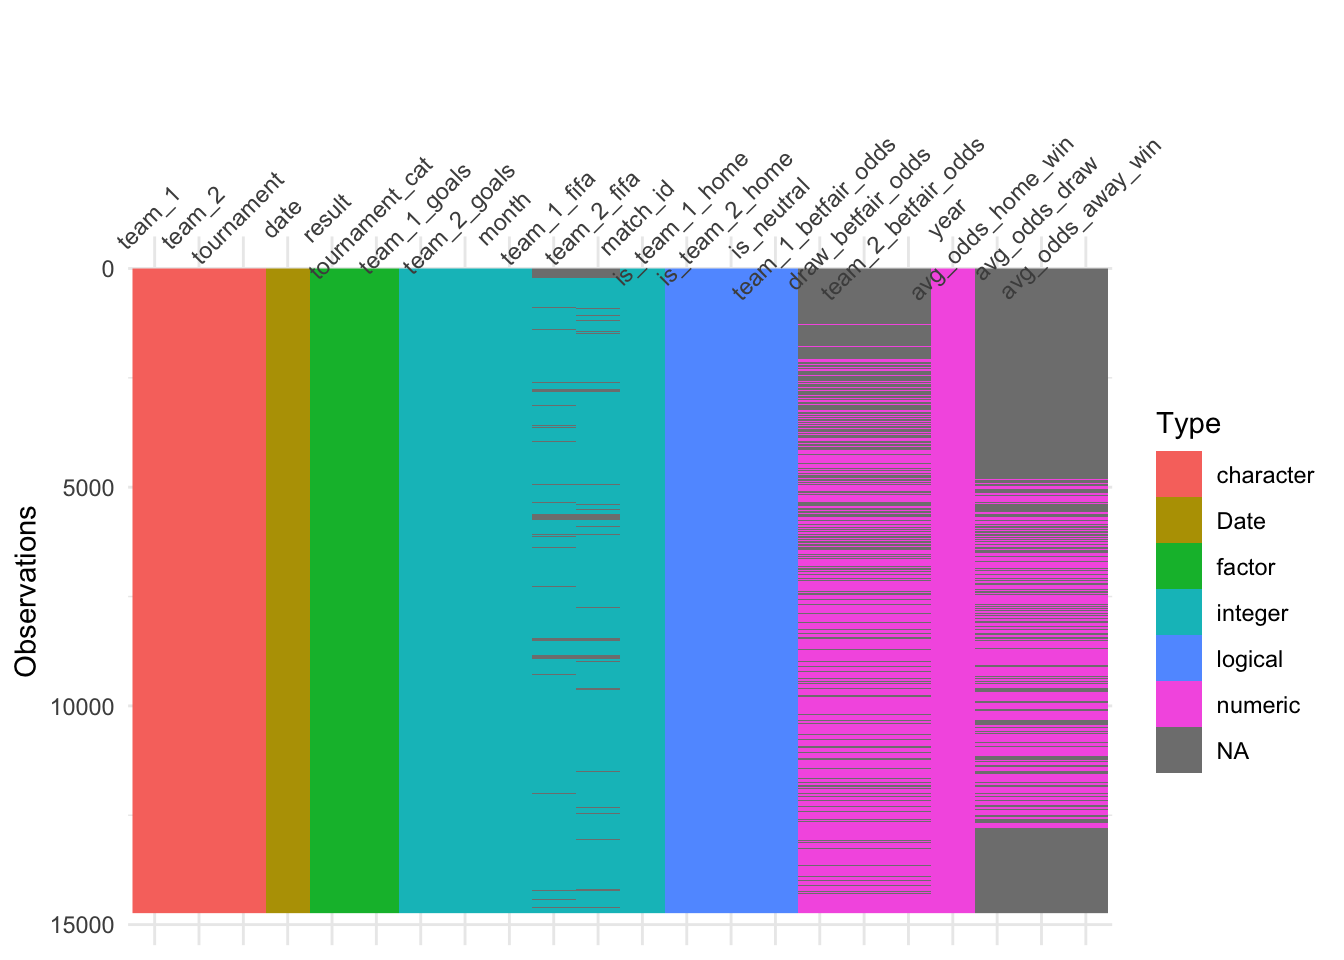
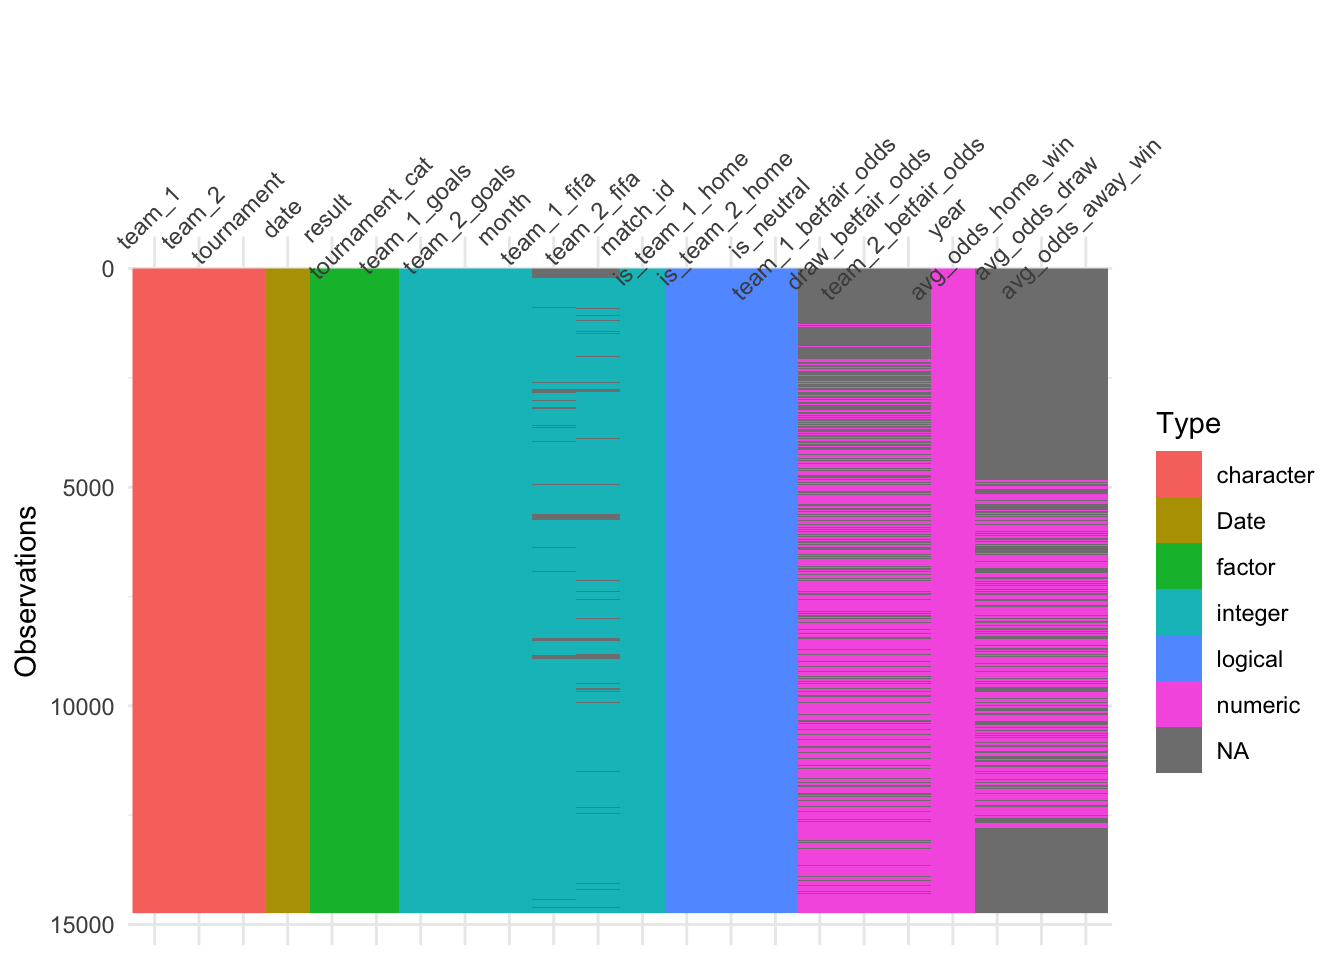
part 3 draft

Changed region(s): [[0.7188, 0.5, 0.8438, 0.8125], [0.5938, 0.625, 0.6875, 0.6562], [0.4062, 0.4062, 0.4375, 0.4375]]

diff --git a/content/post/2018-06-12-world-cup-datathon-part-3-data-exploration.html b/content/post/2018-06-12-world-cup-datathon-part-3-data-exploration.html
@@ -18,7 +18,7 @@ draft: true
 <p>First - let’s load our combined data from <a href="https://plussixoneblog.com/post/football-world-cup-datathon-part-1">Part 2</a>.</p>
 <pre class="r"><code># Load libraries
 library(pacman)
-pacman::p_load(tidyverse, here, elo, ggthemes, zoo, nanier, visdat, lubridate)
+pacman::p_load(tidyverse, here, elo, ggthemes, zoo, naniar, visdat, lubridate)
 
 dat &lt;- read_csv(here::here(&quot;projects&quot;, &quot;world-cup-2018&quot;, &quot;combined-data.csv&quot;))
 world_cup &lt;- read_csv(here::here(&quot;projects&quot;, &quot;world-cup-2018&quot;, &quot;world-cup.csv&quot;))</code></pre>
@@ -43,11 +43,11 @@ dat %&gt;%
 ##   &lt;fct&gt;  &lt;int&gt; &lt;dbl&gt;
 ## 1 draw    3565 0.242
 ## 2 lose    4053 0.275
-## 3 win     7120 0.483</code></pre>
+## 3 win     7122 0.483</code></pre>
 <p>So - that is essentially my baseline model. For an game I can naively put in those percentages. If any other model can’t beat that, it’s not adding anything!</p>
 <p>What about getting an understanding of the rest of the data.</p>
 <pre class="r"><code>glimpse(dat)</code></pre>
-<pre><code>## Observations: 14,738
+<pre><code>## Observations: 14,740
 ## Variables: 21
 ## $ date                &lt;date&gt; 2000-06-10, 2000-06-11, 2000-06-11, 2000-...
 ## $ team_1              &lt;chr&gt; &quot;Belgium&quot;, &quot;France&quot;, &quot;Netherlands&quot;, &quot;Turke...
@@ -99,62 +99,62 @@ dat %&gt;% distinct(tournament_cat)</code></pre>
 <p>Now we can use <code>skim</code> to look at how each column is distributed or structured.</p>
 <pre class="r"><code>skimr::skim(dat)</code></pre>
 <pre><code>## Skim summary statistics
-##  n obs: 14738 
+##  n obs: 14740 
 ##  n variables: 22 
 ## 
 ## Variable type: character 
 ##    variable missing complete     n min max empty n_unique
-##      team_1       0    14738 14738   3  30     0      228
-##      team_2       0    14738 14738   3  30     0      230
-##  tournament       0    14738 14738   8  38     0       81
+##      team_1       0    14740 14740   3  30     0      228
+##      team_2       0    14740 14740   3  30     0      230
+##  tournament       0    14740 14740   8  38     0       81
 ## 
 ## Variable type: Date 
 ##  variable missing complete     n        min        max     median n_unique
-##      date       0    14738 14738 1998-07-15 2017-11-15 2008-06-22     3220
+##      date       0    14740 14740 1998-07-15 2017-11-15 2008-06-22     3220
 ## 
 ## Variable type: factor 
 ##        variable missing complete     n n_unique
-##          result       0    14738 14738        3
-##  tournament_cat       0    14738 14738       13
+##          result       0    14740 14740        3
+##  tournament_cat       0    14740 14740       13
 ##                                 top_counts ordered
-##     win: 7120, los: 4053, dra: 3565, NA: 0   FALSE
-##  Fri: 6634, Wor: 3987, Eur: 1258, Afr: 895   FALSE
+##     win: 7122, los: 4053, dra: 3565, NA: 0   FALSE
+##  Fri: 6636, Wor: 3987, Eur: 1258, Afr: 895   FALSE
 ## 
 ## Variable type: integer 
 ##      variable missing complete     n    mean      sd p0     p25 median
-##      match_id       0    14738 14738 7369.5  4254.64  1 3685.25 7369.5
-##         month       0    14738 14738    6.73    3.15  1    4       7  
-##   team_1_fifa    1037    13701 14738  538.93  290     0  338     518  
-##  team_1_goals       0    14738 14738    1.6     1.63  0    0       1  
-##   team_2_fifa    1072    13666 14738  526.14  288.35  0  330     507  
-##  team_2_goals       0    14738 14738    1.05    1.21  0    0       1  
+##      match_id       0    14740 14740 7370.5  4255.22  1 3685.75 7370.5
+##         month       0    14740 14740    6.73    3.15  1    4       7  
+##   team_1_fifa     901    13839 14740  538.03  288.93  0  339     517  
+##  team_1_goals       0    14740 14740    1.6     1.63  0    0       1  
+##   team_2_fifa     996    13744 14740  525.65  287.65  0  331     506  
+##  team_2_goals       0    14740 14740    1.05    1.21  0    0       1  
 ##       p75  p100     hist
-##  11053.75 14738 ▇▇▇▇▇▇▇▇
+##  11055.25 14740 ▇▇▇▇▇▇▇▇
 ##     10       12 ▅▅▃▇▂▇▆▅
-##    687     1887 ▃▇▇▃▁▁▁▁
+##    685     1887 ▃▇▇▃▁▁▁▁
 ##      2       31 ▇▁▁▁▁▁▁▁
-##    663     1920 ▃▇▇▃▁▁▁▁
+##    662     1920 ▃▇▇▃▁▁▁▁
 ##      2       15 ▇▂▁▁▁▁▁▁
 ## 
 ## Variable type: logical 
 ##        variable missing complete     n mean                        count
-##      is_neutral       0    14738 14738 0.19 FAL: 11944, TRU: 2794, NA: 0
-##  is_team_1_home       0    14738 14738 0.81 TRU: 11924, FAL: 2814, NA: 0
-##  is_team_2_home       0    14738 14738 0               FAL: 14738, NA: 0
+##      is_neutral       0    14740 14740 0.19 FAL: 11946, TRU: 2794, NA: 0
+##  is_team_1_home       0    14740 14740 0.81 TRU: 11926, FAL: 2814, NA: 0
+##  is_team_2_home       0    14740 14740 0               FAL: 14740, NA: 0
 ## 
 ## Variable type: numeric 
 ##             variable missing complete     n    mean    sd      p0     p25
-##    avg_odds_away_win    9728     5010 14738    6.19  7.85    1.01    2.21
-##        avg_odds_draw    9728     5010 14738    4.42  2.4     1.74    3.21
-##    avg_odds_home_win    9728     5010 14738    3.42  5.22    1.01    1.42
-##    draw_betfair_odds    5791     8947 14738    6.64 17.21    1.01    3.35
-##  team_1_betfair_odds    5791     8947 14738    5.89 26.61    1.01    1.46
-##  team_2_betfair_odds    5791     8947 14738   13.17 44.99    1.01    2.32
-##                 year       0    14738 14738 2007.96  5.5  1998    2003   
+##    avg_odds_away_win    9728     5012 14740    6.2   7.85    1.01    2.21
+##        avg_odds_draw    9728     5012 14740    4.42  2.4     1.74    3.21
+##    avg_odds_home_win    9728     5012 14740    3.42  5.22    1.01    1.42
+##    draw_betfair_odds    5791     8949 14740    6.64 17.21    1.01    3.35
+##  team_1_betfair_odds    5791     8949 14740    5.89 26.6     1.01    1.46
+##  team_2_betfair_odds    5791     8949 14740   13.17 44.99    1.01    2.32
+##                 year       0    14740 14740 2007.96  5.5  1998    2003   
 ##   median     p75    p100     hist
-##     3.53    7.17  103.02 ▇▁▁▁▁▁▁▁
+##     3.53    7.18  103.02 ▇▁▁▁▁▁▁▁
 ##     3.49    4.53   32.23 ▇▁▁▁▁▁▁▁
-##     2.04    3.16   60.69 ▇▁▁▁▁▁▁▁
+##     2.03    3.15   60.69 ▇▁▁▁▁▁▁▁
 ##     3.8     5.3   980    ▇▁▁▁▁▁▁▁
 ##     2.14    3.6   980    ▇▁▁▁▁▁▁▁
 ##     4.1     9    1000    ▇▁▁▁▁▁▁▁
@@ -248,53 +248,53 @@ dat &lt;- dat %&gt;%
   
 summary(dat)</code></pre>
 <pre><code>##       date               team_1             team_2         
-##  Min.   :1998-07-15   Length:14738       Length:14738      
+##  Min.   :1998-07-15   Length:14740       Length:14740      
 ##  1st Qu.:2003-10-12   Class :character   Class :character  
 ##  Median :2008-06-22   Mode  :character   Mode  :character  
-##  Mean   :2008-06-19                                        
+##  Mean   :2008-06-20                                        
 ##  3rd Qu.:2013-02-06                                        
 ##  Max.   :2017-11-15                                        
 ##                                                            
-##   team_1_goals     team_2_goals     tournament        is_team_1_home 
-##  Min.   : 0.000   Min.   : 0.000   Length:14738       Mode :logical  
-##  1st Qu.: 0.000   1st Qu.: 0.000   Class :character   FALSE:2814     
-##  Median : 1.000   Median : 1.000   Mode  :character   TRUE :11924    
-##  Mean   : 1.603   Mean   : 1.051                                     
-##  3rd Qu.: 2.000   3rd Qu.: 2.000                                     
-##  Max.   :31.000   Max.   :15.000                                     
-##                                                                      
+##   team_1_goals     team_2_goals    tournament        is_team_1_home 
+##  Min.   : 0.000   Min.   : 0.00   Length:14740       Mode :logical  
+##  1st Qu.: 0.000   1st Qu.: 0.00   Class :character   FALSE:2814     
+##  Median : 1.000   Median : 1.00   Mode  :character   TRUE :11926    
+##  Mean   : 1.603   Mean   : 1.05                                     
+##  3rd Qu.: 2.000   3rd Qu.: 2.00                                     
+##  Max.   :31.000   Max.   :15.00                                     
+##                                                                     
 ##  is_team_2_home  is_neutral      team_1_betfair_odds draw_betfair_odds
 ##  Mode :logical   Mode :logical   Min.   :  1.010     Min.   :  1.010  
-##  FALSE:14738     FALSE:11944     1st Qu.:  1.460     1st Qu.:  3.350  
+##  FALSE:14740     FALSE:11946     1st Qu.:  1.460     1st Qu.:  3.350  
 ##                  TRUE :2794      Median :  2.140     Median :  3.800  
-##                                  Mean   :  5.888     Mean   :  6.645  
+##                                  Mean   :  5.887     Mean   :  6.645  
 ##                                  3rd Qu.:  3.600     3rd Qu.:  5.300  
 ##                                  Max.   :980.000     Max.   :980.000  
 ##                                  NA&#39;s   :5791        NA&#39;s   :5791     
 ##  team_2_betfair_odds      year          month           match_id    
 ##  Min.   :   1.01     Min.   :1998   Min.   : 1.000   Min.   :    1  
-##  1st Qu.:   2.32     1st Qu.:2003   1st Qu.: 4.000   1st Qu.: 3685  
+##  1st Qu.:   2.32     1st Qu.:2003   1st Qu.: 4.000   1st Qu.: 3686  
 ##  Median :   4.10     Median :2008   Median : 7.000   Median : 7370  
-##  Mean   :  13.17     Mean   :2008   Mean   : 6.726   Mean   : 7370  
-##  3rd Qu.:   9.00     3rd Qu.:2013   3rd Qu.:10.000   3rd Qu.:11054  
-##  Max.   :1000.00     Max.   :2017   Max.   :12.000   Max.   :14738  
+##  Mean   :  13.17     Mean   :2008   Mean   : 6.725   Mean   : 7370  
+##  3rd Qu.:   9.00     3rd Qu.:2013   3rd Qu.:10.000   3rd Qu.:11055  
+##  Max.   :1000.00     Max.   :2017   Max.   :12.000   Max.   :14740  
 ##  NA&#39;s   :5791                                                       
-##   result                               tournament_cat  team_1_fifa    
-##  draw:3565   Friendly                         :6634   Min.   :   0.0  
-##  lose:4053   World Cup Qualifiers             :3987   1st Qu.: 340.0  
-##  win :7120   Euro Qualifiers                  :1258   Median : 520.0  
-##              African Cup of Nations Qualifiers: 895   Mean   : 540.9  
-##              Asian Cup Qualifiers             : 458   3rd Qu.: 692.0  
-##              African Cup of Nations           : 317   Max.   :1887.0  
-##              (Other)                          :1189   NA&#39;s   :377     
-##   team_2_fifa    
-##  Min.   :   0.0  
-##  1st Qu.: 332.0  
-##  Median : 511.0  
-##  Mean   : 528.5  
-##  3rd Qu.: 671.0  
-##  Max.   :1920.0  
-##  NA&#39;s   :411</code></pre>
+##   result                               tournament_cat  team_1_fifa  
+##  draw:3565   Friendly                         :6636   Min.   :   0  
+##  lose:4053   World Cup Qualifiers             :3987   1st Qu.: 341  
+##  win :7122   Euro Qualifiers                  :1258   Median : 519  
+##              African Cup of Nations Qualifiers: 895   Mean   : 540  
+##              Asian Cup Qualifiers             : 458   3rd Qu.: 689  
+##              African Cup of Nations           : 317   Max.   :1887  
+##              (Other)                          :1189   NA&#39;s   :237   
+##   team_2_fifa  
+##  Min.   :   0  
+##  1st Qu.: 333  
+##  Median : 510  
+##  Mean   : 528  
+##  3rd Qu.: 670  
+##  Max.   :1920  
+##  NA&#39;s   :329</code></pre>
 <p>So we’ve fixed up most of the fifa data.</p>
 <p>Onto the betfair data. It looked like the most missing data was coming from Oceania Nations Cup, Friendlies and African Cup of Nations.</p>
 <p>What about over time? We’d suspect older games to be less likely to have odds data.</p>
@@ -385,38 +385,38 @@ dat &lt;- dat %&gt;%
   filter(Team %in% world_cup$team_1) %&gt;%
   arrange(desc(elo))</code></pre>
 <pre><code>##              Team      elo
-## 1          Brazil 2076.692
-## 2         Germany 2074.395
-## 3           Spain 1989.556
-## 4        Portugal 1963.627
-## 5       Argentina 1956.556
-## 6          France 1942.805
-## 7        Colombia 1908.238
-## 8            Peru 1893.125
-## 9         Belgium 1886.284
-## 10        England 1881.405
-## 11           Iran 1864.564
-## 12         Mexico 1844.091
-## 13        Senegal 1831.558
-## 14        Uruguay 1827.805
-## 15          Japan 1826.381
-## 16        Croatia 1821.584
-## 17    Switzerland 1814.110
-## 18      Australia 1793.759
-## 19         Poland 1791.896
-## 20     Costa Rica 1783.080
-## 21        Iceland 1781.230
-## 22        Denmark 1772.941
-## 23          Egypt 1769.524
-## 24         Sweden 1765.550
-## 25 Korea Republic 1758.811
-## 26        Nigeria 1756.240
-## 27        Morocco 1752.210
-## 28         Panama 1725.075
-## 29         Serbia 1714.644
-## 30        Tunisia 1705.438
-## 31   Saudi Arabia 1700.681
-## 32         Russia 1684.373</code></pre>
+## 1          Brazil 2076.715
+## 2         Germany 2074.492
+## 3           Spain 1989.650
+## 4        Portugal 1963.858
+## 5       Argentina 1956.581
+## 6          France 1942.912
+## 7        Colombia 1908.234
+## 8            Peru 1893.122
+## 9         Belgium 1886.362
+## 10        England 1881.468
+## 11           Iran 1864.434
+## 12         Mexico 1844.136
+## 13        Senegal 1831.587
+## 14        Uruguay 1827.816
+## 15          Japan 1826.275
+## 16        Croatia 1821.667
+## 17    Switzerland 1814.201
+## 18      Australia 1793.659
+## 19         Poland 1791.995
+## 20     Costa Rica 1783.093
+## 21        Iceland 1781.308
+## 22        Denmark 1773.105
+## 23          Egypt 1769.544
+## 24         Sweden 1765.650
+## 25 Korea Republic 1758.689
+## 26        Nigeria 1756.263
+## 27        Morocco 1752.234
+## 28         Panama 1725.079
+## 29         Serbia 1714.713
+## 30        Tunisia 1705.453
+## 31   Saudi Arabia 1700.544
+## 32         Russia 1684.451</code></pre>
 </div>
 <div id="team-history" class="section level2">
 <h2>Team history</h2>
@@ -442,9 +442,9 @@ head(team_dat)</code></pre>
 ## 5 1998-07-22       5 Friendly       Senegal     1      1     0            
 ## 6 1998-07-24       6 Friendly       Burkina Fa… 1      1     0</code></pre>
 <pre class="r"><code>nrow(team_dat)</code></pre>
-<pre><code>## [1] 29476</code></pre>
+<pre><code>## [1] 29480</code></pre>
 <pre class="r"><code>nrow(dat) * 2</code></pre>
-<pre><code>## [1] 29476</code></pre>
+<pre><code>## [1] 29480</code></pre>
 <p>Ok - that was tricky. Oh well - we got it!</p>
 </div>
 <div id="values-for-last-10-games" class="section level2">
